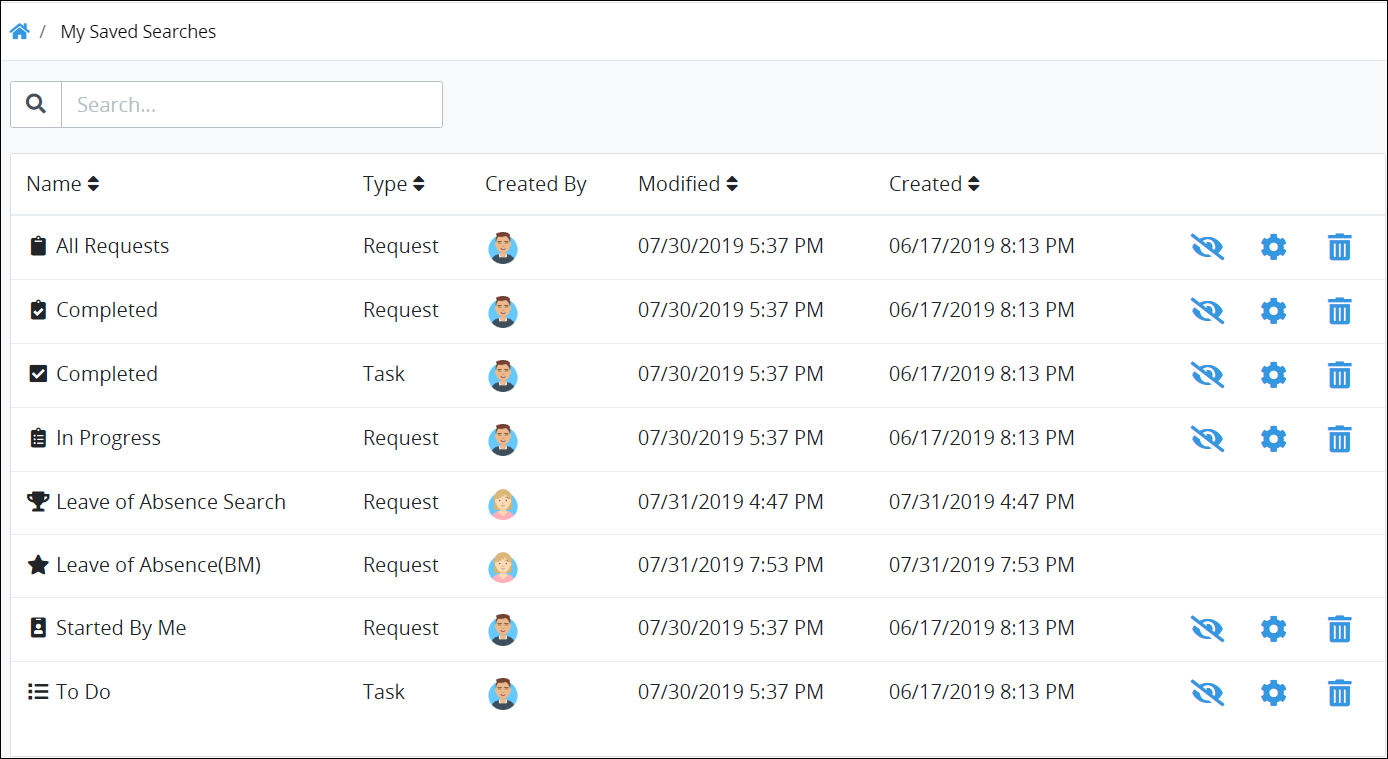
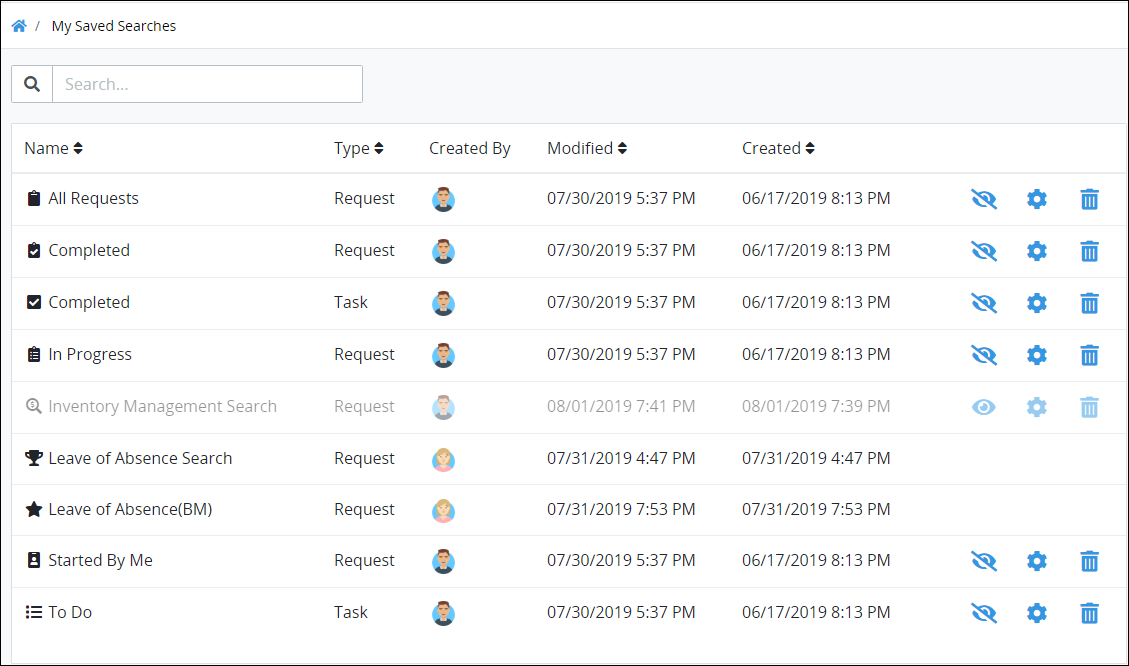
GitBook: [processmaker] 5 pages and 4 assets modified

diff --git a/using-processmaker/save-and-share-request-and-task-related-searches/manage-your-saved-searches.md b/using-processmaker/save-and-share-request-and-task-related-searches/manage-your-saved-searches.md
@@ -4,28 +4,27 @@ description: >-
   you.
 ---
 
-# Manage Your Saved Searches
+# Manage Your Own Saved Searches
 
-## Manage Your Saved Searches
+## Manage Your Own Saved Searches
 
 {% hint style="info" %}
-To manage Saved Searches, the [Saved Searches](../../package-development-distribution/package-a-connector/saved-searches-package.md) package must be installed in your ProcessMaker instance. The Saved Searches package is not available in the ProcessMaker open-source edition. Contact [ProcessMaker Sales](mailto:sales@processmaker.com) or ask your ProcessMaker sales representative how the Saved Searches package can be installed in your ProcessMaker instance.
+To manage [Saved Searches](what-is-a-saved-search.md), the [Saved Searches package](../../package-development-distribution/package-a-connector/saved-searches-package.md) must be installed in your ProcessMaker instance. The Saved Searches package is not available in the ProcessMaker open-source edition. Contact [ProcessMaker Sales](mailto:sales@processmaker.com) or ask your ProcessMaker sales representative how the Saved Searches package can be installed in your ProcessMaker instance.
 {% endhint %}
 
-Follow these steps to manage your Saved Searches:
+You can manage your own Saved Searches. However, you cannot manage Saved Searches which have been shared with you. You can only manage those that you have [created](create-and-share-a-saved-search.md).
 
-1. View any of the following **Requests** pages:
+Follow these steps to manage your own Saved Searches:
 
-   * **My Requests** page. See [View Your Requests That You Started](../requests/view-started-requests.md#view-your-requests).
-   * **In Progress** page. See [View Requests That Are In Progress](../requests/view-in-progress-requests.md#view-in-progress-requests-in-which-you-are-participating).
-   * **Completed** page. See [View Completed Requests](../requests/view-completed-requests.md#view-completed-requests-in-which-you-participated).
-   * **All Requests** page. See [View All Requests](../requests/view-all-requests.md#view-all-requests-in-your-organization). \(Note that your ProcessMaker user account must have the [**Requests: View All Requests** permission](../../processmaker-administration/permission-descriptions-for-users-and-groups.md#requests) to view the **All Requests** page.\)
-
-   Alternatively, view any of the following Tasks pages:
-
-   * **To Do** page. See [View Tasks You Need to Do](../task-management/view-tasks-you-need-to-do.md).
-   * **Completed** page. See [View Completed Tasks](../task-management/view-completed-tasks.md).
-
+1. View all Saved Searches that you have created and which have been shared with you from any of the following pages:
+   * **Requests** pages:
+     * **My Requests** page. See [View Your Requests That You Started](../requests/view-started-requests.md#view-your-requests).
+     * **In Progress** page. See [View Requests That Are In Progress](../requests/view-in-progress-requests.md#view-in-progress-requests-in-which-you-are-participating).
+     * **Completed** page. See [View Completed Requests](../requests/view-completed-requests.md#view-completed-requests-in-which-you-participated).
+     * **All Requests** page. See [View All Requests](../requests/view-all-requests.md#view-all-requests-in-your-organization). \(Note that your ProcessMaker user account must have the [**Requests: View All Requests** permission](../../processmaker-administration/permission-descriptions-for-users-and-groups.md#requests) to view the **All Requests** page.\)
+   * **Tasks** pages:
+     * **To Do** page. See [View Tasks You Need to Do](../task-management/view-tasks-you-need-to-do.md).
+     * **Completed** page. See [View Completed Tasks](../task-management/view-completed-tasks.md).
 2. Click the **My Saved Searches** icon![](../../.gitbook/assets/save-search-icon-package-requests-tasks.png)from the left sidebar. The **My Saved Searches** page displays.
 
 ![&quot;My Saved Searches&quot; page displays your saved searches and those which have been shared with you](../../.gitbook/assets/my-saved-searches-page-package-requests-tasks.png)
@@ -40,6 +39,14 @@ The **My Saved Searches** page displays the following information in tabular for
 * **Modified:** The **Modified** column displays the date and time the Saved Search was last modified by the ProcessMaker user that created the Saved Search. A Saved Search can only be modified by the ProcessMaker user that created it. The time zone setting to display the time is according to the ProcessMaker instance unless your [user profile's](../profile-settings.md#change-your-profile-settings) **Time zone** setting is specified.
 * **Created:** The **Created** column displays the date and time the Saved Search was created. The time zone setting to display the time is according to the ProcessMaker instance unless your [user profile's](../profile-settings.md#change-your-profile-settings) **Time zone** setting is specified.
 
+Use the **My Saved Searches** page to manage your own Saved Searches by using the following options:
+
+* Hide one of your Saved Searches. See [Hide One of Your Own Saved Searches](manage-your-saved-searches.md#hide-one-of-your-saved-searches).
+* Configure one of your Saved Searches. See [Configure One of Your Own Saved Searches](manage-your-saved-searches.md#configure-one-of-your-saved-searches).
+* Delete one of your Saved Searches. See [Delete One of Your Own Saved Searches](manage-your-saved-searches.md#delete-one-of-your-saved-searches).
+
+Saved Searches that do not have these options are those which have been shared with you. A Saved Search can only be managed by the ProcessMaker [user](../../processmaker-administration/add-users/what-is-a-user.md) that creates it. Therefore, there are no options for Saved Searches shared with you. You may only use Saved Searches shared with you by [viewing their search results](view-saved-searches-that-are-shared-with-you.md).
+
 {% hint style="info" %}
 ### No Saved Searches?
 
@@ -49,6 +56,40 @@ If there are no Saved Searches, the following message displays: **No Results**.
 
 [Control how tabular information displays](../control-how-requests-display-in-a-tab.md), including how to sort columns or how many items display per page.
 {% endhint %}
+
+### Hide One of Your Own Saved Searches
+
+Hiding a Saved Search only hides that Saved Search from you using it from the left sidebar of the Request- and Task-related pages. Sharing recipients of that Saved Search may still use it to view search results using your Saved Search's parameters.
+
+Follow these steps to hide one of your own Saved Searches:
+
+1. [View all the Shared Searches that you have created and which have been shared with you](manage-your-saved-searches.md#manage-your-own-saved-searches). The **My Saved Searches** page displays.
+2. Click the **Hide Saved Search** icon![](../../.gitbook/assets/hide-saved-search-icon-package.png). The Saved Search is hidden, indicated by diminished visibility of that Saved Search in the **My Saved Searches** page.
+
+### Show One of Your Hidden Saved Searches
+
+Showing a hidden Saved Search allows you to use that Saved Search again from the left sidebar of the Request- and Task-related pages.
+
+Follow these steps to show one of your hidden Saved Searches:
+
+1. [View all the Shared Searches that you have created and which have been shared with you](manage-your-saved-searches.md#manage-your-own-saved-searches). The **My Saved Searches** page displays.
+2. Click the **Show Saved Search** icon![](../../.gitbook/assets/show-saved-search-icon-package.png). The Saved Search is visible, indicated by full visibility of that Saved Search in the **My Saved Searches** page.
+
+### Configure One of Your Own Saved Searches
+
+
+
+### Delete One of Your Own Saved Searches
+
+{% hint style="warning" %}
+Consider carefully whether to delete one of your own Saved Searches. When deleting a Shared Search, it is no longer shared with those ProcessMaker users and/or groups with which you have shared them. The recipients of your shared Saved Search will no longer be able to use it to quickly view search results using your Shared Search's parameters.
+{% endhint %}
+
+Follow these steps to delete one of your own Saved Searches:
+
+1. [View all the Shared Searches that you have created and which have been shared with you](manage-your-saved-searches.md#manage-your-own-saved-searches). The **My Saved Searches** page displays.
+2. Click the **Delete** icon![](../../.gitbook/assets/trash-icon-process-modeler-processes.png). The **Caution** screen displays to confirm the deletion of the Saved Search.  ![](../../.gitbook/assets/caution-delete-shared-search-package.png) 
+3. Click **Confirm**.
 
 ## Related Topics
 

diff --git a/using-processmaker/save-and-share-request-and-task-related-searches/what-is-a-saved-search.md b/using-processmaker/save-and-share-request-and-task-related-searches/what-is-a-saved-search.md
@@ -7,20 +7,20 @@ description: Understand what the Saved Search package does in ProcessMaker.
 ## Overview
 
 {% hint style="info" %}
-The [Saved Searches](../../package-development-distribution/package-a-connector/saved-searches-package.md) package must be installed in your ProcessMaker instance to use Saved Searches. The Saved Searches package is not available in the ProcessMaker open-source edition. Contact [ProcessMaker Sales](mailto:sales@processmaker.com) or ask your ProcessMaker sales representative how the Saved Searches package can be installed in your ProcessMaker instance.
+The [Saved Searches package](../../package-development-distribution/package-a-connector/saved-searches-package.md) must be installed in your ProcessMaker instance to use Saved Searches. The Saved Searches package is not available in the ProcessMaker open-source edition. Contact [ProcessMaker Sales](mailto:sales@processmaker.com) or ask your ProcessMaker sales representative how the Saved Searches package can be installed in your ProcessMaker instance.
 {% endhint %}
 
-Use the Saved Searches package to save and share searches associated with [Requests](../requests/what-is-a-request.md) and [Tasks](../task-management/what-is-a-task.md). In doing so, you maintain the search parameters for your Saved Searches; recipients of the Saved Searches that you share can only view results of those Saved Searches. Share your Request search with specific ProcessMaker [users](../../processmaker-administration/add-users/what-is-a-user.md) and/or [groups](../../processmaker-administration/assign-groups-to-users/what-is-a-group.md).
+Use the Saved Searches package to save and share searches associated with [Requests](../requests/what-is-a-request.md) and [Tasks](../task-management/what-is-a-task.md). In doing so, you manage the search parameters for your Saved Searches; recipients of the Saved Searches that you share can only view search results of those Saved Searches. Share your Request search with specific ProcessMaker [users](../../processmaker-administration/add-users/what-is-a-user.md) and/or [groups](../../processmaker-administration/assign-groups-to-users/what-is-a-group.md).
 
 Saved Searches have the following attributes:
 
 * **Configure your Saved Searches:** You configure your own Saved Searches. Those that you share with others can only view search results using the parameters configured in those Saved Searches.
-* **Hide Saved Searches:** You may hide your Saved Searches. However, in doing so, they are no longer shared with those ProcessMaker users and/or groups with which you have shared them.
-* **Delete Saved Searches:** You may delete your Saved Searches. However, in doing so, they are no longer shared with those ProcessMaker users and/or groups with which you have shared them.
+* **Hide Saved Searches:** You may hide your Saved Searches. However, in doing so, they are no longer shared with those ProcessMaker users and/or groups with which you have shared them. Hiding a Saved Search only hides that Saved Search from you using it from the left sidebar of the Request- and Task-related pages. Sharing recipients of that Saved Search may still use it to view search results using your Saved Search's parameters.
+* **Delete Saved Searches:** You may delete your Saved Searches. However, in doing so, they are no longer shared with those ProcessMaker users and/or groups with which you have shared them. The recipients of your shared Saved Search will no longer be able to use it to quickly view search results using your Shared Search's parameters.
 * **Request-related Saved Searches:** Saved Searches associated with Requests display only in the left sidebar of Request-related pages.
 * **Task-related Saved Searches:** Saved Searches associated with Tasks display only in the left sidebar of Task-related pages.
 
-The **My Saved Searches** page displays both your saved Request- and Task-related Saved Searches, as well as those that others have shared with you. See [Manage Your Saved Searches](manage-your-saved-searches.md).
+The **My Saved Searches** page displays both your saved Request- and Task-related Saved Searches, as well as those that others have shared with you. See [Manage Your Own Saved Searches](manage-your-saved-searches.md).
 
 ![&quot;My Saved Searches&quot; page displays your saved searches and those which have been shared with you](../../.gitbook/assets/my-saved-searches-page-package-requests-tasks.png)
 

diff --git a/package-development-distribution/package-a-connector/saved-searches-package.md b/package-development-distribution/package-a-connector/saved-searches-package.md
@@ -10,23 +10,9 @@ description: Save and share search queries associated with Requests and Tasks.
 The Saved Searches package is not available in the ProcessMaker open-source edition. Contact [ProcessMaker Sales](mailto:sales@processmaker.com) or ask your ProcessMaker sales representative how the Saved Searches package can be installed in your ProcessMaker instance.
 {% endhint %}
 
-Use the Saved Searches package to save and share searches associated with [Requests](../../using-processmaker/requests/what-is-a-request.md) and [Tasks](../../using-processmaker/task-management/what-is-a-task.md). In doing so, you maintain the search parameters for your Saved Searches; recipients of the Saved Searches that you share can only view results of those Saved Searches. Share your Request search with specific ProcessMaker [users](../../processmaker-administration/add-users/what-is-a-user.md) and/or [groups](../../processmaker-administration/assign-groups-to-users/what-is-a-group.md).
+Use the Saved Searches package to save and share searches associated with [Requests](../../using-processmaker/requests/what-is-a-request.md) and [Tasks](../../using-processmaker/task-management/what-is-a-task.md). In doing so, you [manage](../../using-processmaker/save-and-share-request-and-task-related-searches/manage-your-saved-searches.md) the search parameters for your [Saved Searches](../../using-processmaker/save-and-share-request-and-task-related-searches/what-is-a-saved-search.md); recipients of the Saved Searches that you share can only view search results of those Saved Searches. Share your Request search with specific ProcessMaker [users](../../processmaker-administration/add-users/what-is-a-user.md) and/or [groups](../../processmaker-administration/assign-groups-to-users/what-is-a-group.md).
 
-Saved Searches have the following attributes:
-
-* **Configure your Saved Searches:** You configure your own Saved Searches. Those that you share with others can only view search results using the parameters configured in those Saved Searches.
-* **Hide Saved Searches:** You may hide your Saved Searches. However, in doing so, they are no longer shared with those ProcessMaker users and/or groups with which you have shared them.
-* **Delete Saved Searches:** You may delete your Saved Searches. However, in doing so, they are no longer shared with those ProcessMaker users and/or groups with which you have shared them.
-* **Request-related Saved Searches:** Saved Searches associated with Requests display only in the left sidebar of Request-related pages.
-* **Task-related Saved Searches:** Saved Searches associated with Tasks display only in the left sidebar of Task-related pages.
-
-The **My Saved Searches** page displays both your saved Request- and Task-related Saved Searches, as well as those that others have shared with you. See [Manage Your Saved Searches](../../using-processmaker/save-and-share-request-and-task-related-searches/manage-your-saved-searches.md).
-
-![&quot;My Saved Searches&quot; page displays your saved searches and those which have been shared with you](../../.gitbook/assets/my-saved-searches-page-package-requests-tasks.png)
-
-Access the search results of Saved Search from the left sidebar of the **Requests**- and **Tasks**- related pages. An icon represents each Saved Search that the ProcessMaker user selects when [creating the Saved Search](../../using-processmaker/save-and-share-request-and-task-related-searches/create-and-share-a-saved-search.md). Saved Searches display above the **My Saved Searches** icon![](../../.gitbook/assets/save-search-icon-package-requests-tasks.png). Click the left sidebar on **Requests** and **Tasks** pages to view search results for each Saved Search.
-
-![View Saved Search Results by clicking the left sidebar on &quot;Requests&quot; and &quot;Tasks&quot; pages](../../.gitbook/assets/saved-searches-results-package-requests-tasks.png)
+See [Saved Searches](../../using-processmaker/save-and-share-request-and-task-related-searches/).
 
 ## Related Topics
 

diff --git a/using-processmaker/save-and-share-request-and-task-related-searches/create-and-share-a-saved-search.md b/using-processmaker/save-and-share-request-and-task-related-searches/create-and-share-a-saved-search.md
@@ -9,7 +9,7 @@ description: >-
 ## Create and Share a Saved Search
 
 {% hint style="info" %}
-To create and share Saved Searches, the [Saved Searches](../../package-development-distribution/package-a-connector/saved-searches-package.md) package must be installed in your ProcessMaker instance. The Saved Searches package is not available in the ProcessMaker open-source edition. Contact [ProcessMaker Sales](mailto:sales@processmaker.com) or ask your ProcessMaker sales representative how the Saved Searches package can be installed in your ProcessMaker instance.
+To create and share [Saved Searches](what-is-a-saved-search.md), the [Saved Searches package](../../package-development-distribution/package-a-connector/saved-searches-package.md) must be installed in your ProcessMaker instance. The Saved Searches package is not available in the ProcessMaker open-source edition. Contact [ProcessMaker Sales](mailto:sales@processmaker.com) or ask your ProcessMaker sales representative how the Saved Searches package can be installed in your ProcessMaker instance.
 {% endhint %}
 
 Follow these steps to create and share a Saved Search:

diff --git a/SUMMARY.md b/SUMMARY.md
@@ -38,7 +38,7 @@
   * [What is a Saved Search?](using-processmaker/save-and-share-request-and-task-related-searches/what-is-a-saved-search.md)
   * [View Saved Searches That Are Shared with You](using-processmaker/save-and-share-request-and-task-related-searches/view-saved-searches-that-are-shared-with-you.md)
   * [Create and Share a Saved Search](using-processmaker/save-and-share-request-and-task-related-searches/create-and-share-a-saved-search.md)
-  * [Manage Your Saved Searches](using-processmaker/save-and-share-request-and-task-related-searches/manage-your-saved-searches.md)
+  * [Manage Your Own Saved Searches](using-processmaker/save-and-share-request-and-task-related-searches/manage-your-saved-searches.md)
 * [Notifications](using-processmaker/notifications.md)
 * [Control How Tabular Information Displays](using-processmaker/control-how-requests-display-in-a-tab.md)
 
